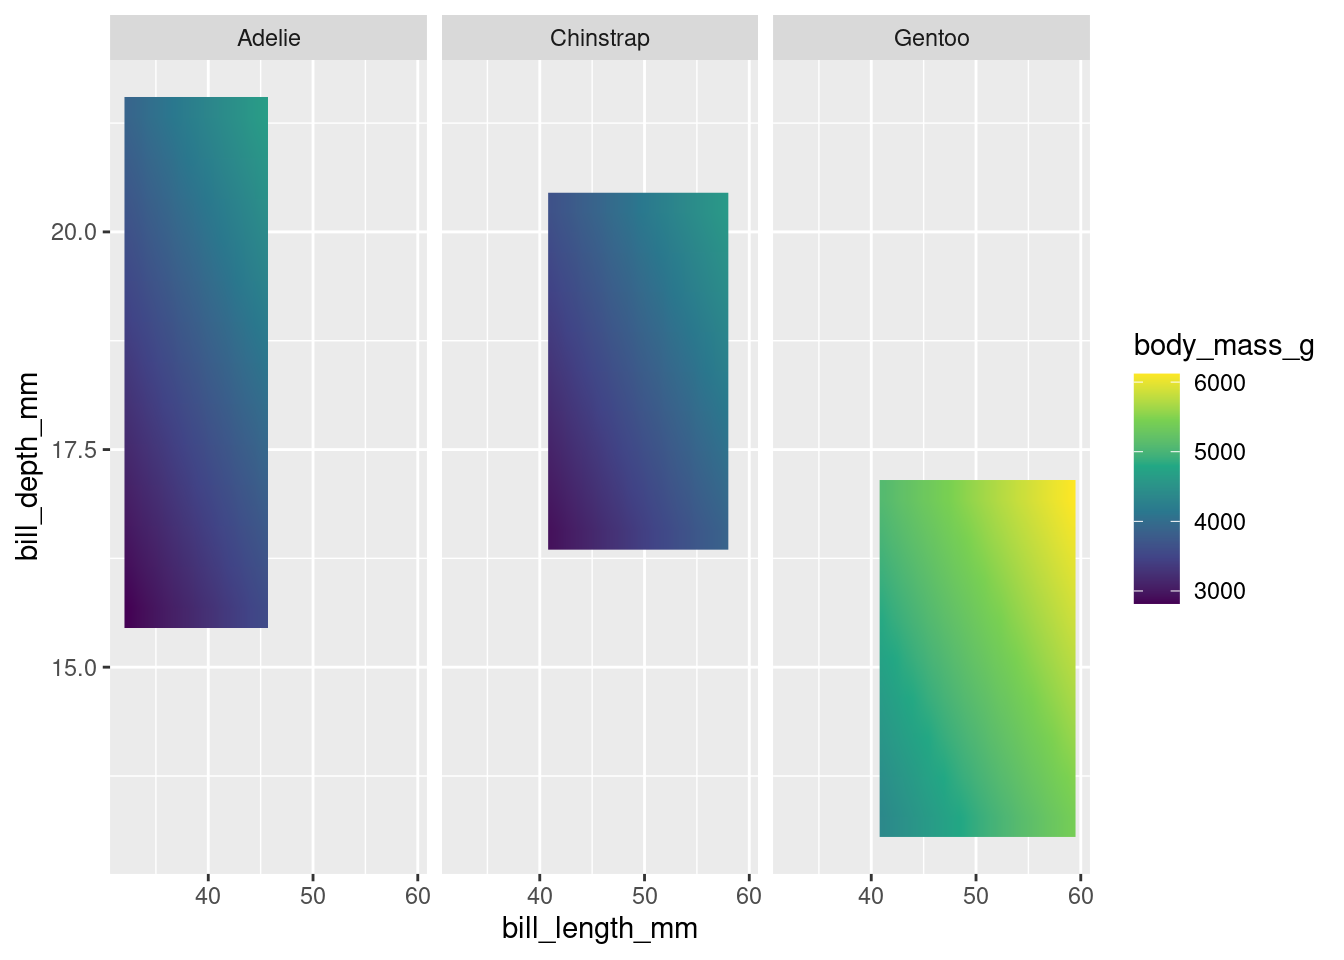
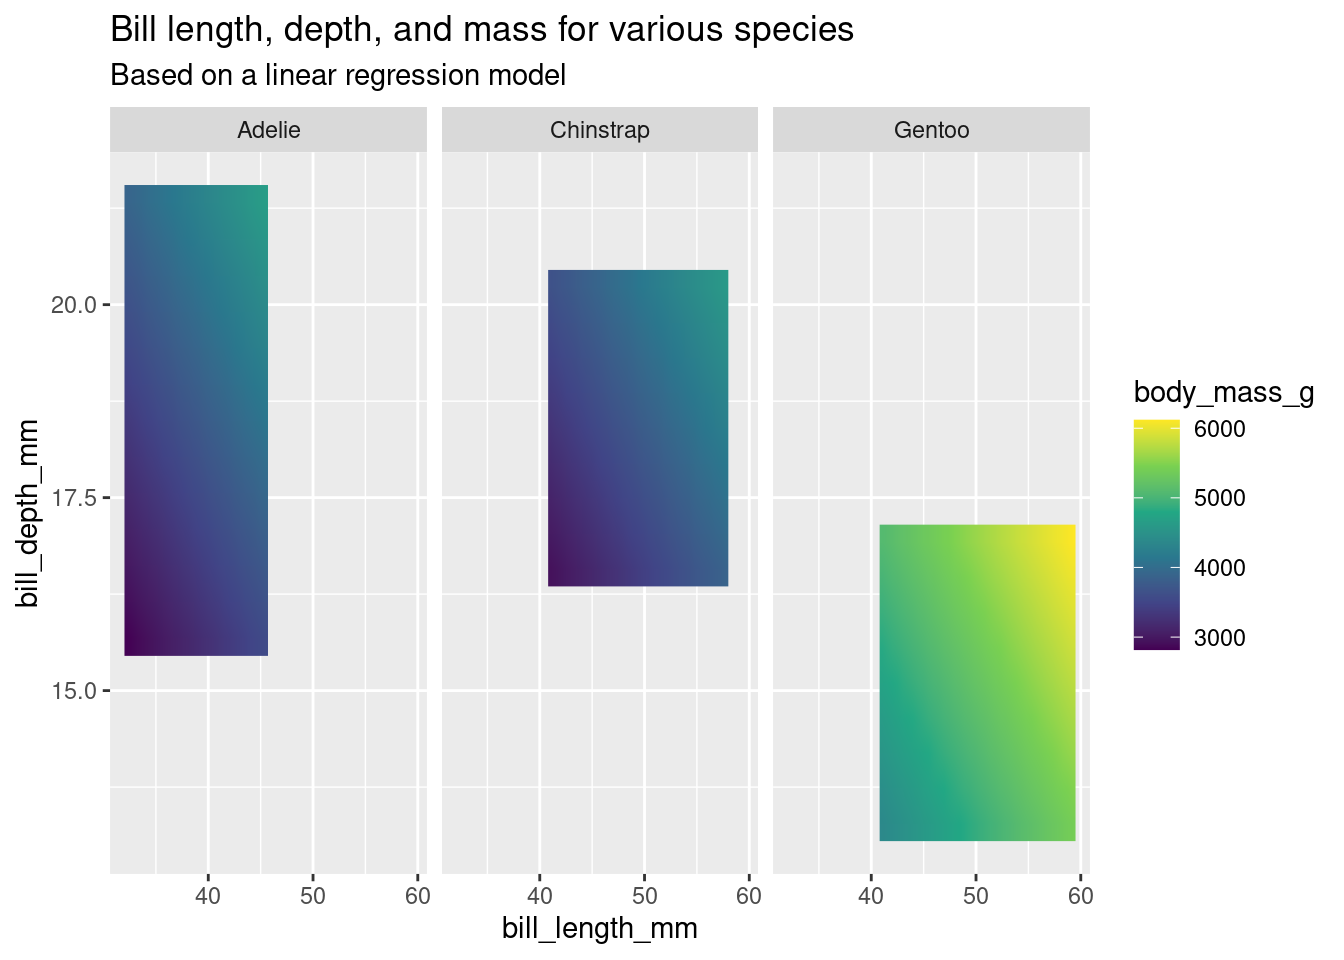
added plot titles

diff --git a/docs/04-visualizations-ggplot2.html b/docs/04-visualizations-ggplot2.html
@@ -625,7 +625,8 @@ div.csl-indent {
 <div class="sourceCode cell-code" id="cb29"><pre class="sourceCode r code-with-copy"><code class="sourceCode r"><span id="cb29-1"><a href="#cb29-1" aria-hidden="true" tabindex="-1"></a>penguins <span class="sc">%&gt;%</span> </span>
 <span id="cb29-2"><a href="#cb29-2" aria-hidden="true" tabindex="-1"></a>  <span class="fu">ggplot</span>(<span class="fu">aes</span>(<span class="at">x =</span> bill_length_mm, <span class="at">y =</span> bill_depth_mm, <span class="at">fill =</span> body_mass_g)) <span class="sc">+</span> </span>
 <span id="cb29-3"><a href="#cb29-3" aria-hidden="true" tabindex="-1"></a>  <span class="fu">geom_raster</span>() <span class="sc">+</span></span>
-<span id="cb29-4"><a href="#cb29-4" aria-hidden="true" tabindex="-1"></a>  <span class="fu">facet_wrap</span>(<span class="sc">~</span>species)</span></code><button title="Copy to Clipboard" class="code-copy-button"><i class="bi"></i></button></pre></div>
+<span id="cb29-4"><a href="#cb29-4" aria-hidden="true" tabindex="-1"></a>  <span class="fu">facet_wrap</span>(<span class="sc">~</span>species) <span class="sc">+</span></span>
+<span id="cb29-5"><a href="#cb29-5" aria-hidden="true" tabindex="-1"></a>  <span class="fu">ggtitle</span>(<span class="st">"Bad example for geom_raster (due to low density)"</span>)</span></code><button title="Copy to Clipboard" class="code-copy-button"><i class="bi"></i></button></pre></div>
 <div class="cell-output-display">
 <p><img src="04-visualizations-ggplot2_files/figure-html/three dimension ggplot first approach-1.png" class="img-fluid" width="672"></p>
 </div>
@@ -648,23 +649,23 @@ div.csl-indent {
 <div class="sourceCode cell-code" id="cb31"><pre class="sourceCode r code-with-copy"><code class="sourceCode r"><span id="cb31-1"><a href="#cb31-1" aria-hidden="true" tabindex="-1"></a>gt<span class="sc">::</span><span class="fu">gt</span>(penguin_ranges)</span></code><button title="Copy to Clipboard" class="code-copy-button"><i class="bi"></i></button></pre></div>
 <div class="cell-output-display">
 
-<div id="clbyallkvy" style="padding-left:0px;padding-right:0px;padding-top:10px;padding-bottom:10px;overflow-x:auto;overflow-y:auto;width:auto;height:auto;">
-<style>#clbyallkvy table {
+<div id="xtktymlhiw" style="padding-left:0px;padding-right:0px;padding-top:10px;padding-bottom:10px;overflow-x:auto;overflow-y:auto;width:auto;height:auto;">
+<style>#xtktymlhiw table {
   font-family: system-ui, 'Segoe UI', Roboto, Helvetica, Arial, sans-serif, 'Apple Color Emoji', 'Segoe UI Emoji', 'Segoe UI Symbol', 'Noto Color Emoji';
   -webkit-font-smoothing: antialiased;
   -moz-osx-font-smoothing: grayscale;
 }
 
-#clbyallkvy thead, #clbyallkvy tbody, #clbyallkvy tfoot, #clbyallkvy tr, #clbyallkvy td, #clbyallkvy th {
+#xtktymlhiw thead, #xtktymlhiw tbody, #xtktymlhiw tfoot, #xtktymlhiw tr, #xtktymlhiw td, #xtktymlhiw th {
   border-style: none;
 }
 
-#clbyallkvy p {
+#xtktymlhiw p {
   margin: 0;
   padding: 0;
 }
 
-#clbyallkvy .gt_table {
+#xtktymlhiw .gt_table {
   display: table;
   border-collapse: collapse;
   line-height: normal;
@@ -690,12 +691,12 @@ div.csl-indent {
   border-left-color: #D3D3D3;
 }
 
-#clbyallkvy .gt_caption {
+#xtktymlhiw .gt_caption {
   padding-top: 4px;
   padding-bottom: 4px;
 }
 
-#clbyallkvy .gt_title {
+#xtktymlhiw .gt_title {
   color: #333333;
   font-size: 125%;
   font-weight: initial;
@@ -707,7 +708,7 @@ div.csl-indent {
   border-bottom-width: 0;
 }
 
-#clbyallkvy .gt_subtitle {
+#xtktymlhiw .gt_subtitle {
   color: #333333;
   font-size: 85%;
   font-weight: initial;
@@ -719,7 +720,7 @@ div.csl-indent {
   border-top-width: 0;
 }
 
-#clbyallkvy .gt_heading {
+#xtktymlhiw .gt_heading {
   background-color: #FFFFFF;
   text-align: center;
   border-bottom-color: #FFFFFF;
@@ -731,13 +732,13 @@ div.csl-indent {
   border-right-color: #D3D3D3;
 }
 
-#clbyallkvy .gt_bottom_border {
+#xtktymlhiw .gt_bottom_border {
   border-bottom-style: solid;
   border-bottom-width: 2px;
   border-bottom-color: #D3D3D3;
 }
 
-#clbyallkvy .gt_col_headings {
+#xtktymlhiw .gt_col_headings {
   border-top-style: solid;
   border-top-width: 2px;
   border-top-color: #D3D3D3;
@@ -752,7 +753,7 @@ div.csl-indent {
   border-right-color: #D3D3D3;
 }
 
-#clbyallkvy .gt_col_heading {
+#xtktymlhiw .gt_col_heading {
   color: #333333;
   background-color: #FFFFFF;
   font-size: 100%;
@@ -772,7 +773,7 @@ div.csl-indent {
   overflow-x: hidden;
 }
 
-#clbyallkvy .gt_column_spanner_outer {
+#xtktymlhiw .gt_column_spanner_outer {
   color: #333333;
   background-color: #FFFFFF;
   font-size: 100%;
@@ -784,15 +785,15 @@ div.csl-indent {
   padding-right: 4px;
 }
 
-#clbyallkvy .gt_column_spanner_outer:first-child {
+#xtktymlhiw .gt_column_spanner_outer:first-child {
   padding-left: 0;
 }
 
-#clbyallkvy .gt_column_spanner_outer:last-child {
+#xtktymlhiw .gt_column_spanner_outer:last-child {
   padding-right: 0;
 }
 
-#clbyallkvy .gt_column_spanner {
+#xtktymlhiw .gt_column_spanner {
   border-bottom-style: solid;
   border-bottom-width: 2px;
   border-bottom-color: #D3D3D3;
@@ -804,11 +805,11 @@ div.csl-indent {
   width: 100%;
 }
 
-#clbyallkvy .gt_spanner_row {
+#xtktymlhiw .gt_spanner_row {
   border-bottom-style: hidden;
 }
 
-#clbyallkvy .gt_group_heading {
+#xtktymlhiw .gt_group_heading {
   padding-top: 8px;
   padding-bottom: 8px;
   padding-left: 5px;
@@ -834,7 +835,7 @@ div.csl-indent {
   text-align: left;
 }
 
-#clbyallkvy .gt_empty_group_heading {
+#xtktymlhiw .gt_empty_group_heading {
   padding: 0.5px;
   color: #333333;
   background-color: #FFFFFF;
@@ -849,15 +850,15 @@ div.csl-indent {
   vertical-align: middle;
 }
 
-#clbyallkvy .gt_from_md > :first-child {
+#xtktymlhiw .gt_from_md > :first-child {
   margin-top: 0;
 }
 
-#clbyallkvy .gt_from_md > :last-child {
+#xtktymlhiw .gt_from_md > :last-child {
   margin-bottom: 0;
 }
 
-#clbyallkvy .gt_row {
+#xtktymlhiw .gt_row {
   padding-top: 8px;
   padding-bottom: 8px;
   padding-left: 5px;
@@ -876,7 +877,7 @@ div.csl-indent {
   overflow-x: hidden;
 }
 
-#clbyallkvy .gt_stub {
+#xtktymlhiw .gt_stub {
   color: #333333;
   background-color: #FFFFFF;
   font-size: 100%;
@@ -889,7 +890,7 @@ div.csl-indent {
   padding-right: 5px;
 }
 
-#clbyallkvy .gt_stub_row_group {
+#xtktymlhiw .gt_stub_row_group {
   color: #333333;
   background-color: #FFFFFF;
   font-size: 100%;
@@ -903,15 +904,15 @@ div.csl-indent {
   vertical-align: top;
 }
 
-#clbyallkvy .gt_row_group_first td {
+#xtktymlhiw .gt_row_group_first td {
   border-top-width: 2px;
 }
 
-#clbyallkvy .gt_row_group_first th {
+#xtktymlhiw .gt_row_group_first th {
   border-top-width: 2px;
 }
 
-#clbyallkvy .gt_summary_row {
+#xtktymlhiw .gt_summary_row {
   color: #333333;
   background-color: #FFFFFF;
   text-transform: inherit;
@@ -921,16 +922,16 @@ div.csl-indent {
   padding-right: 5px;
 }
 
-#clbyallkvy .gt_first_summary_row {
+#xtktymlhiw .gt_first_summary_row {
   border-top-style: solid;
   border-top-color: #D3D3D3;
 }
 
-#clbyallkvy .gt_first_summary_row.thick {
+#xtktymlhiw .gt_first_summary_row.thick {
   border-top-width: 2px;
 }
 
-#clbyallkvy .gt_last_summary_row {
+#xtktymlhiw .gt_last_summary_row {
   padding-top: 8px;
   padding-bottom: 8px;
   padding-left: 5px;
@@ -940,7 +941,7 @@ div.csl-indent {
   border-bottom-color: #D3D3D3;
 }
 
-#clbyallkvy .gt_grand_summary_row {
+#xtktymlhiw .gt_grand_summary_row {
   color: #333333;
   background-color: #FFFFFF;
   text-transform: inherit;
@@ -950,7 +951,7 @@ div.csl-indent {
   padding-right: 5px;
 }
 
-#clbyallkvy .gt_first_grand_summary_row {
+#xtktymlhiw .gt_first_grand_summary_row {
   padding-top: 8px;
   padding-bottom: 8px;
   padding-left: 5px;
@@ -960,7 +961,7 @@ div.csl-indent {
   border-top-color: #D3D3D3;
 }
 
-#clbyallkvy .gt_last_grand_summary_row_top {
+#xtktymlhiw .gt_last_grand_summary_row_top {
   padding-top: 8px;
   padding-bottom: 8px;
   padding-left: 5px;
@@ -970,11 +971,11 @@ div.csl-indent {
   border-bottom-color: #D3D3D3;
 }
 
-#clbyallkvy .gt_striped {
+#xtktymlhiw .gt_striped {
   background-color: rgba(128, 128, 128, 0.05);
 }
 
-#clbyallkvy .gt_table_body {
+#xtktymlhiw .gt_table_body {
   border-top-style: solid;
   border-top-width: 2px;
   border-top-color: #D3D3D3;
@@ -983,7 +984,7 @@ div.csl-indent {
   border-bottom-color: #D3D3D3;
 }
 
-#clbyallkvy .gt_footnotes {
+#xtktymlhiw .gt_footnotes {
   color: #333333;
   background-color: #FFFFFF;
   border-bottom-style: none;
@@ -997,7 +998,7 @@ div.csl-indent {
   border-right-color: #D3D3D3;
 }
 
-#clbyallkvy .gt_footnote {
+#xtktymlhiw .gt_footnote {
   margin: 0px;
   font-size: 90%;
   padding-top: 4px;
@@ -1006,7 +1007,7 @@ div.csl-indent {
   padding-right: 5px;
 }
 
-#clbyallkvy .gt_sourcenotes {
+#xtktymlhiw .gt_sourcenotes {
   color: #333333;
   background-color: #FFFFFF;
   border-bottom-style: none;
@@ -1020,7 +1021,7 @@ div.csl-indent {
   border-right-color: #D3D3D3;
 }
 
-#clbyallkvy .gt_sourcenote {
+#xtktymlhiw .gt_sourcenote {
   font-size: 90%;
   padding-top: 4px;
   padding-bottom: 4px;
@@ -1028,63 +1029,63 @@ div.csl-indent {
   padding-right: 5px;
 }
 
-#clbyallkvy .gt_left {
+#xtktymlhiw .gt_left {
   text-align: left;
 }
 
-#clbyallkvy .gt_center {
+#xtktymlhiw .gt_center {
   text-align: center;
 }
 
-#clbyallkvy .gt_right {
+#xtktymlhiw .gt_right {
   text-align: right;
   font-variant-numeric: tabular-nums;
 }
 
-#clbyallkvy .gt_font_normal {
+#xtktymlhiw .gt_font_normal {
   font-weight: normal;
 }
 
-#clbyallkvy .gt_font_bold {
+#xtktymlhiw .gt_font_bold {
   font-weight: bold;
 }
 
-#clbyallkvy .gt_font_italic {
+#xtktymlhiw .gt_font_italic {
   font-style: italic;
 }
 
-#clbyallkvy .gt_super {
+#xtktymlhiw .gt_super {
   font-size: 65%;
 }
 
-#clbyallkvy .gt_footnote_marks {
+#xtktymlhiw .gt_footnote_marks {
   font-size: 75%;
   vertical-align: 0.4em;
   position: initial;
 }
 
-#clbyallkvy .gt_asterisk {
+#xtktymlhiw .gt_asterisk {
   font-size: 100%;
   vertical-align: 0;
 }
 
-#clbyallkvy .gt_indent_1 {
+#xtktymlhiw .gt_indent_1 {
   text-indent: 5px;
 }
 
-#clbyallkvy .gt_indent_2 {
+#xtktymlhiw .gt_indent_2 {
   text-indent: 10px;
 }
 
-#clbyallkvy .gt_indent_3 {
+#xtktymlhiw .gt_indent_3 {
   text-indent: 15px;
 }
 
-#clbyallkvy .gt_indent_4 {
+#xtktymlhiw .gt_indent_4 {
   text-indent: 20px;
 }
 
-#clbyallkvy .gt_indent_5 {
+#xtktymlhiw .gt_indent_5 {
   text-indent: 25px;
 }
 </style>
@@ -1147,7 +1148,8 @@ div.csl-indent {
 <span id="cb32-20"><a href="#cb32-20" aria-hidden="true" tabindex="-1"></a>  <span class="fu">ggplot</span>(<span class="fu">aes</span>(<span class="at">x =</span> bill_length_mm, <span class="at">y =</span> bill_depth_mm, <span class="at">fill =</span> body_mass_g)) <span class="sc">+</span> </span>
 <span id="cb32-21"><a href="#cb32-21" aria-hidden="true" tabindex="-1"></a>  <span class="fu">geom_raster</span>(<span class="at">interpolate =</span> <span class="cn">TRUE</span>) <span class="sc">+</span> </span>
 <span id="cb32-22"><a href="#cb32-22" aria-hidden="true" tabindex="-1"></a>  <span class="fu">scale_fill_viridis_c</span>() <span class="sc">+</span> </span>
-<span id="cb32-23"><a href="#cb32-23" aria-hidden="true" tabindex="-1"></a>  <span class="fu">facet_wrap</span>(<span class="sc">~</span>species)</span></code><button title="Copy to Clipboard" class="code-copy-button"><i class="bi"></i></button></pre></div>
+<span id="cb32-23"><a href="#cb32-23" aria-hidden="true" tabindex="-1"></a>  <span class="fu">facet_wrap</span>(<span class="sc">~</span>species) <span class="sc">+</span> </span>
+<span id="cb32-24"><a href="#cb32-24" aria-hidden="true" tabindex="-1"></a>  <span class="fu">ggtitle</span>(<span class="st">"Bill length, depth, and mass for various species"</span>, <span class="at">subtitle =</span> <span class="st">"Based on a linear regression model"</span>)</span></code><button title="Copy to Clipboard" class="code-copy-button"><i class="bi"></i></button></pre></div>
 <div class="cell-output cell-output-stderr">
 <pre><code>Warning: Raster pixels are placed at uneven horizontal intervals and will be shifted
 ℹ Consider using `geom_tile()` instead.
